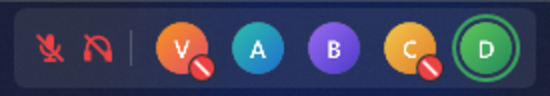
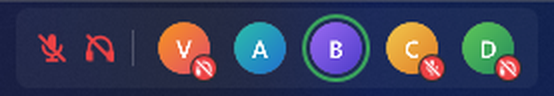
Selo de mutado ou ensurdecido nos avatares e fundo mais discreto
- O selo vermelho nos avatares mostra o microfone cortado (mutado) ou o fone
  cortado (ensurdecido), em vez de so um traco. Conta tambem o ensurdecido
  pelo servidor, que antes nem era lido.
- Fundo da pilula na barra mais discreto: 4% de branco em vez de 8%, e 9% em
  vez de 12% no hover.
- Modo demonstracao: o Davi fica ensurdecido e quem esta silenciado nao
  acende o anel de fala.
- README: GIF e prints refeitos com os selos novos.

Claude-Session: https://claude.ai/code/session_01DxD38gkjHiG6Y3yYCH1rCd

diff --git a/src/DiscordVoiceWidget.App/Controls/VoiceWidgetView.xaml b/src/DiscordVoiceWidget.App/Controls/VoiceWidgetView.xaml
@@ -55,8 +55,9 @@
                     </Ellipse>
                 </Grid>
 
-                <!-- Selo de silenciado. Desenhado num quadro fixo de 14px e escalado
-                     pelo Viewbox, para o traco acompanhar o tamanho do avatar. -->
+                <!-- Selo de silenciado: microfone cortado (mutado) ou fone cortado
+                     (ensurdecido). Desenhado num quadro fixo de 14px e escalado pelo
+                     Viewbox, para o traco acompanhar o tamanho do avatar. -->
                 <Viewbox Width="{Binding DataContext.BadgeDiameter, RelativeSource={RelativeSource AncestorType=UserControl}}"
                          Height="{Binding DataContext.BadgeDiameter, RelativeSource={RelativeSource AncestorType=UserControl}}"
                          HorizontalAlignment="Right"
@@ -65,9 +66,36 @@
                     <Grid Width="14" Height="14">
                         <Ellipse Fill="{StaticResource SurfaceBrush}" />
                         <Ellipse Margin="1" Fill="{StaticResource MutedBrush}" />
-                        <Path Data="M4,4 L10,10"
+
+                        <Grid x:Name="BadgeMic">
+                            <Path Data="M7,3 C6.45,3 6,3.45 6,4 L6,6.4 C6,6.95 6.45,7.4 7,7.4 C7.55,7.4 8,6.95 8,6.4 L8,4 C8,3.45 7.55,3 7,3 Z"
+                                  Fill="White" />
+                            <Path Data="M4.7,6.3 A2.3,2.3 0 0 0 9.3,6.3 M7,8.6 L7,10.4"
+                                  Stroke="White"
+                                  StrokeThickness="1"
+                                  StrokeStartLineCap="Round"
+                                  StrokeEndLineCap="Round" />
+                        </Grid>
+
+                        <Grid x:Name="BadgeHeadphones" Visibility="Collapsed">
+                            <Path Data="M3.9,8.6 L3.9,7.1 A3.1,3.1 0 0 1 10.1,7.1 L10.1,8.6"
+                                  Stroke="White"
+                                  StrokeThickness="1"
+                                  StrokeStartLineCap="Round"
+                                  StrokeEndLineCap="Round" />
+                            <Path Data="M3.2,7.9 L5.2,7.9 L5.2,10.6 L3.8,10.6 C3.47,10.6 3.2,10.33 3.2,10 Z M10.8,7.9 L8.8,7.9 L8.8,10.6 L10.2,10.6 C10.53,10.6 10.8,10.33 10.8,10 Z"
+                                  Fill="White" />
+                        </Grid>
+
+                        <!-- Corte: o traco vermelho largo abre uma folga em volta do branco. -->
+                        <Path Data="M3.6,3.6 L10.4,10.4"
+                              Stroke="{StaticResource MutedBrush}"
+                              StrokeThickness="2.6"
+                              StrokeStartLineCap="Round"
+                              StrokeEndLineCap="Round" />
+                        <Path Data="M3.6,3.6 L10.4,10.4"
                               Stroke="White"
-                              StrokeThickness="1.6"
+                              StrokeThickness="1.1"
                               StrokeStartLineCap="Round"
                               StrokeEndLineCap="Round" />
                     </Grid>
@@ -82,6 +110,10 @@
                 <DataTrigger Binding="{Binding IsSpeaking}" Value="True">
                     <Setter TargetName="Ring" Property="Opacity" Value="1" />
                 </DataTrigger>
+                <DataTrigger Binding="{Binding IsDeafened}" Value="True">
+                    <Setter TargetName="BadgeMic" Property="Visibility" Value="Collapsed" />
+                    <Setter TargetName="BadgeHeadphones" Property="Visibility" Value="Visible" />
+                </DataTrigger>
             </DataTemplate.Triggers>
         </DataTemplate>
     </UserControl.Resources>
@@ -95,17 +127,17 @@
                 <Setter Property="Padding" Value="6,3" />
                 <Style.Triggers>
                     <!-- Barra: mesmo padrao dos widgets do Windows 11 (cantos de 6px
-                         e branco translucido chapado, sem borda). -->
+                         e branco translucido chapado, sem borda), so que mais discreto. -->
                     <DataTrigger Binding="{Binding TaskbarStyle, RelativeSource={RelativeSource AncestorType=UserControl}}" Value="True">
                         <Setter Property="CornerRadius" Value="6" />
-                        <Setter Property="Background" Value="#14FFFFFF" />
+                        <Setter Property="Background" Value="#0BFFFFFF" />
                     </DataTrigger>
                     <MultiDataTrigger>
                         <MultiDataTrigger.Conditions>
                             <Condition Binding="{Binding TaskbarStyle, RelativeSource={RelativeSource AncestorType=UserControl}}" Value="True" />
                             <Condition Binding="{Binding IsMouseOver, RelativeSource={RelativeSource Self}}" Value="True" />
                         </MultiDataTrigger.Conditions>
-                        <Setter Property="Background" Value="#1FFFFFFF" />
+                        <Setter Property="Background" Value="#17FFFFFF" />
                     </MultiDataTrigger>
                 </Style.Triggers>
             </Style>

diff --git a/src/DiscordVoiceWidget.App/Classes/DemoCall.cs b/src/DiscordVoiceWidget.App/Classes/DemoCall.cs
@@ -13,13 +13,13 @@ namespace DiscordVoiceWidget.App;
 /// </summary>
 internal sealed class DemoCall : IDisposable
 {
-    private static readonly (string Id, string Name, Color From, Color To, bool Silenced)[] People =
+    private static readonly (string Id, string Name, Color From, Color To, bool Silenced, bool Deafened)[] People =
     [
-        ("self", "Você", Color.FromRgb(0xF7, 0x97, 0x1E), Color.FromRgb(0xE2, 0x4A, 0x6B), false),
-        ("ana", "Ana", Color.FromRgb(0x2B, 0xC0, 0xA8), Color.FromRgb(0x1F, 0x6F, 0xD1), false),
-        ("bruno", "Bruno", Color.FromRgb(0x9B, 0x6B, 0xF2), Color.FromRgb(0x4C, 0x3B, 0xC9), false),
-        ("carla", "Carla", Color.FromRgb(0xF2, 0xC9, 0x4C), Color.FromRgb(0xE0, 0x7B, 0x28), true),
-        ("davi", "Davi", Color.FromRgb(0x5F, 0xC8, 0x5A), Color.FromRgb(0x23, 0x8A, 0x5B), false),
+        ("self", "Você", Color.FromRgb(0xF7, 0x97, 0x1E), Color.FromRgb(0xE2, 0x4A, 0x6B), false, false),
+        ("ana", "Ana", Color.FromRgb(0x2B, 0xC0, 0xA8), Color.FromRgb(0x1F, 0x6F, 0xD1), false, false),
+        ("bruno", "Bruno", Color.FromRgb(0x9B, 0x6B, 0xF2), Color.FromRgb(0x4C, 0x3B, 0xC9), false, false),
+        ("carla", "Carla", Color.FromRgb(0xF2, 0xC9, 0x4C), Color.FromRgb(0xE0, 0x7B, 0x28), true, false),
+        ("davi", "Davi", Color.FromRgb(0x5F, 0xC8, 0x5A), Color.FromRgb(0x23, 0x8A, 0x5B), true, true),
     ];
 
     /// <summary>Quem fala em cada passo. Fixo, para os prints e o GIF sairem iguais sempre.</summary>
@@ -45,26 +45,27 @@ internal sealed class DemoCall : IDisposable
             {
                 DisplayName = person.Name,
                 IsSilenced = person.Silenced || (person.Id == "self" && selfMuted),
+                IsDeafened = person.Deafened || (person.Id == "self" && selfDeafened),
                 Avatar = RenderAvatar(person.Name, person.From, person.To),
             });
         }
 
-        // Mutado, "voce" nao fala: o anel verde ficaria em contradicao com o icone vermelho.
-        _timer.Tick += (_, _) => Advance(skipSelf: selfMuted);
+        _timer.Tick += (_, _) => Advance();
     }
 
     public void Start()
     {
-        Advance(skipSelf: _viewModel.SelfMuted);
+        Advance();
         _timer.Start();
     }
 
-    private void Advance(bool skipSelf)
+    // Silenciado nao fala: o anel verde ficaria em contradicao com o selo vermelho.
+    private void Advance()
     {
         var speaking = Script[_step++ % Script.Length];
         foreach (var participant in _viewModel.Participants)
         {
-            participant.IsSpeaking = speaking.Contains(participant.UserId) && !(skipSelf && participant.IsSelf);
+            participant.IsSpeaking = speaking.Contains(participant.UserId) && !participant.IsSilenced;
         }
     }
 

diff --git a/src/DiscordVoiceWidget.App/ViewModels/VoiceWidgetViewModel.cs b/src/DiscordVoiceWidget.App/ViewModels/VoiceWidgetViewModel.cs
@@ -26,6 +26,7 @@ public sealed class ParticipantViewModel(string userId, bool isSelf) : Observabl
 {
     private ImageSource? _avatar;
     private string _displayName = string.Empty;
+    private bool _isDeafened;
     private bool _isSilenced;
     private bool _isSpeaking;
 
@@ -68,6 +69,13 @@ public sealed class ParticipantViewModel(string userId, bool isSelf) : Observabl
     {
         get => _isSilenced;
         set => Set(ref _isSilenced, value);
+    }
+
+    /// <summary>Ensurdecido (implica silenciado): o selo mostra o fone cortado em vez do microfone.</summary>
+    public bool IsDeafened
+    {
+        get => _isDeafened;
+        set => Set(ref _isDeafened, value);
     }
 
     public string AvatarUrl { get; set; } = string.Empty;
@@ -190,6 +198,7 @@ public sealed class VoiceWidgetViewModel : ObservableBase
 
             existing.DisplayName = p.DisplayName;
             existing.IsSilenced = p.IsSilenced;
+            existing.IsDeafened = p.IsDeafened;
 
             if (existing.AvatarUrl != p.AvatarUrl)
             {

diff --git a/src/DiscordVoiceWidget.Rpc/Models/VoiceModels.cs b/src/DiscordVoiceWidget.Rpc/Models/VoiceModels.cs
@@ -29,9 +29,12 @@ public sealed record VoiceParticipant(
     string AvatarUrl,
     bool SelfMuted,
     bool SelfDeafened,
-    bool ServerMuted)
+    bool ServerMuted,
+    bool ServerDeafened)
 {
-    public bool IsSilenced => SelfMuted || SelfDeafened || ServerMuted;
+    public bool IsDeafened => SelfDeafened || ServerDeafened;
+
+    public bool IsSilenced => SelfMuted || ServerMuted || IsDeafened;
 
     /// <summary>
     /// Le tanto os itens de GET_SELECTED_VOICE_CHANNEL.voice_states[] quanto o
@@ -54,7 +57,8 @@ public sealed record VoiceParticipant(
             AvatarUrlFor(userId, Str(user, "avatar")),
             Bool(voice, "self_mute"),
             Bool(voice, "self_deaf"),
-            Bool(voice, "mute"));
+            Bool(voice, "mute"),
+            Bool(voice, "deaf"));
     }
 
     public static string AvatarUrlFor(string userId, string? avatarHash, int size = 64)

diff --git a/README.md b/README.md
@@ -26,7 +26,7 @@
 - **Avatares da call na barra de tarefas**, embutidos na própria barra, ao lado do relógio.
 - **Anel verde em quem está falando**, com um pequeno atraso ajustável para não piscar nas pausas da fala.
 - **Seu microfone em um relance**: ícone verde quando aberto, vermelho quando mutado ou ensurdecido.
-- **Quem está mutado** ganha um selo vermelho no avatar.
+- **Quem está mutado ou ensurdecido** ganha um selo vermelho no avatar, com o microfone ou o fone cortado.
 - **Um ou dois monitores**: na barra secundária (que continua visível durante jogos em tela cheia), na principal ou nas duas.
 - **Overlay sobre os jogos** opcional, com atalhos globais e cliques que atravessam a janela.
 - **Menu no próprio widget**: botão direito para mutar, ensurdecer, fechar o Discord, ligar o overlay e abrir as configurações.
@@ -81,7 +81,7 @@ use **Configurações → Trocar app do Discord**.
 | Estado | Como aparece |
 |---|---|
 | Alguém falando, seu microfone aberto | ![Anel verde em quem fala e microfone verde](docs/images/taskbar.png) |
-| Seu microfone mutado, participantes mutados | ![Microfone vermelho e selos vermelhos nos avatares mutados](docs/images/taskbar-muted.png) |
+| Seu microfone mutado; a Carla mutada e o Davi ensurdecido | ![Microfone vermelho; selo de microfone cortado na Carla e de fone cortado no Davi](docs/images/taskbar-muted.png) |
 | Você ensurdecido | ![Microfone e fone de ouvido cortados em vermelho](docs/images/taskbar-deafened.png) |
 
 Passe o mouse sobre um avatar para ver o nome da pessoa.
